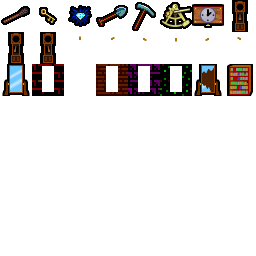
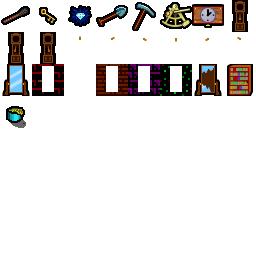
Kernel changes: o Yuse checks for tools and materials o Yuse consumes materials o Yuse UI shows material available o Yuse UI show lack of tools or material in red; avail in green
Haxima changes:
o Added grease
o Wriggle skill requires 1 grease

Changed region(s): [[0.0, 0.4062, 0.125, 0.5]]

diff --git a/src/cmd.c b/src/cmd.c
@@ -3975,7 +3975,7 @@ static void cmd_paint_skill(struct stat_super_generic_data *self,
             || ! list_empty(&skill->materials)) {
 
                 /* print "requires:" */
-                screenPrint(rect, 0, "^c+G%s^c-", requires);
+                screenPrint(rect, 0, " ^c+G%s^c-", requires);
 
                 /* temporarily change x to print to right of "requires" */
                 rect->x += (strlen(requires) + 1) * ASCII_W;
@@ -3983,7 +3983,9 @@ static void cmd_paint_skill(struct stat_super_generic_data *self,
                 /* list tools */
                 node_for_each(&skill->tools, tnode) {
                         class ObjectType *tool = (class ObjectType*)tnode->ptr;
-                        screenPrint(rect, 0, "^c+y%s^c-", tool->getName());
+                        struct inv_entry *ie=player_party->inventory->search(tool);
+                        char tool_clr=(ie&&ie->count)?'g':'r';
+                        screenPrint(rect, 0, "^c+%c%s^c-", tool_clr, tool->getName());
                         rect->y += ASCII_H;
                 }
 
@@ -3993,9 +3995,15 @@ static void cmd_paint_skill(struct stat_super_generic_data *self,
                                 list_entry(elem, struct skill_material, list);
                         class ObjectType *objtype = 
                                 (class ObjectType*)mat->objtype;
-                        screenPrint(rect, 0, "^c+y%s^c+c (%d)^c-^c-", 
+                        struct inv_entry *ie=player_party->inventory->search(objtype);
+                        char mat_clr=ie?'g':'r';
+                        char q_clr=(ie&&(ie->count>=mat->quantity))?'g':'r';
+                        screenPrint(rect, 0, "^c+%c%s^c+%c (%d/%d)^c-^c-", 
+                                    mat_clr,
                                     objtype->getName(), 
-                                    mat->quantity);
+                                    q_clr,
+                                    mat->quantity,
+                                    ie?ie->count:0);
                         rect->y += ASCII_H;
                 }
 
@@ -4109,8 +4117,35 @@ void cmdYuse(class Character *actor)
         }
 
         /* check tools */
+        if (!node_list_empty(&skill->tools)) {
+                struct node *tnode;
+                node_for_each(&skill->tools, tnode) {
+                        class ObjectType *tool = (class ObjectType*)tnode->ptr;
+                        struct inv_entry *ie=player_party->inventory->search(tool);
+                        if (!ie || !ie->count) {
+                                log_msg("Need %s!", tool->getName());
+                                cant = 1;
+                        }
+                }
+
+        }
 
         /* check material */
+        if (! list_empty(&skill->materials)) {
+                struct list *elem;
+                struct skill_material *mat;
+                class ObjectType *objtype;
+                struct inv_entry *ie;
+                list_for_each(&skill->materials, elem) {
+                        mat = list_entry(elem, struct skill_material, list);
+                        objtype = (class ObjectType*)mat->objtype;
+                        ie = player_party->inventory->search(objtype);
+                        if (!ie || ie->count < mat->quantity) {
+                                cant = 1;
+                                log_msg("Need %d %s!", mat->quantity, objtype->getName());
+                        }
+                }
+        }
 
         /* check special */
         if (skill->can_yuse
@@ -4129,11 +4164,21 @@ void cmdYuse(class Character *actor)
         result = closure_exec(skill->yuse, "p", actor);
         yused = cmd_eval_and_log_result(result);
         
-        /* change ap/mp/xp */
+        /* change ap/mp/xp and consume materials */
         if (yused) {
                 actor->addMana(0 - skill->mp);
                 actor->decActionPoints(skill->ap);
                 actor->addExperience(ssent->level);
+
+                if (! list_empty(&skill->materials)) {
+                        struct list *elem;
+                        struct skill_material *mat;
+                        list_for_each(&skill->materials, elem) {
+                                mat = list_entry(elem, struct skill_material, list);
+                                player_party->takeOut((class ObjectType*)mat->objtype, 
+                                                      mat->quantity);
+                        }
+                }
         }       
 
         log_end(0);
